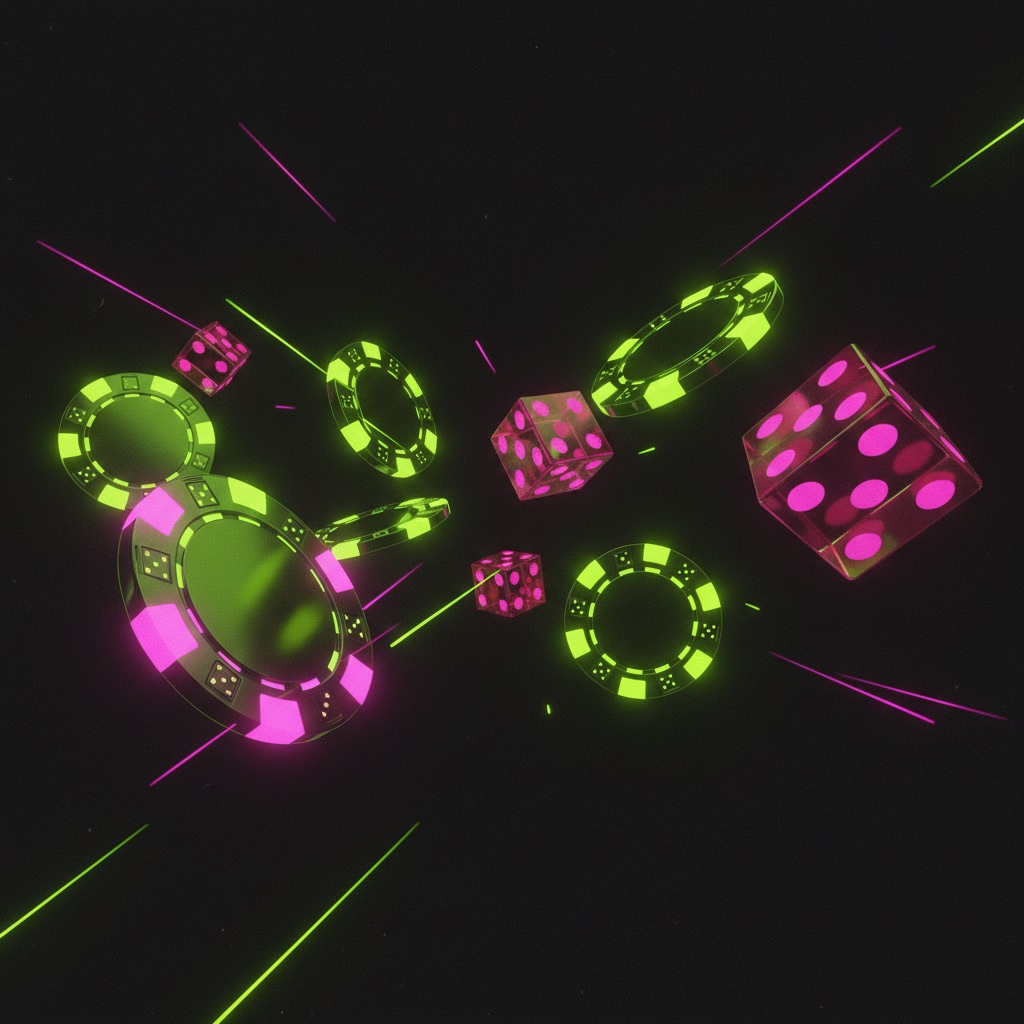
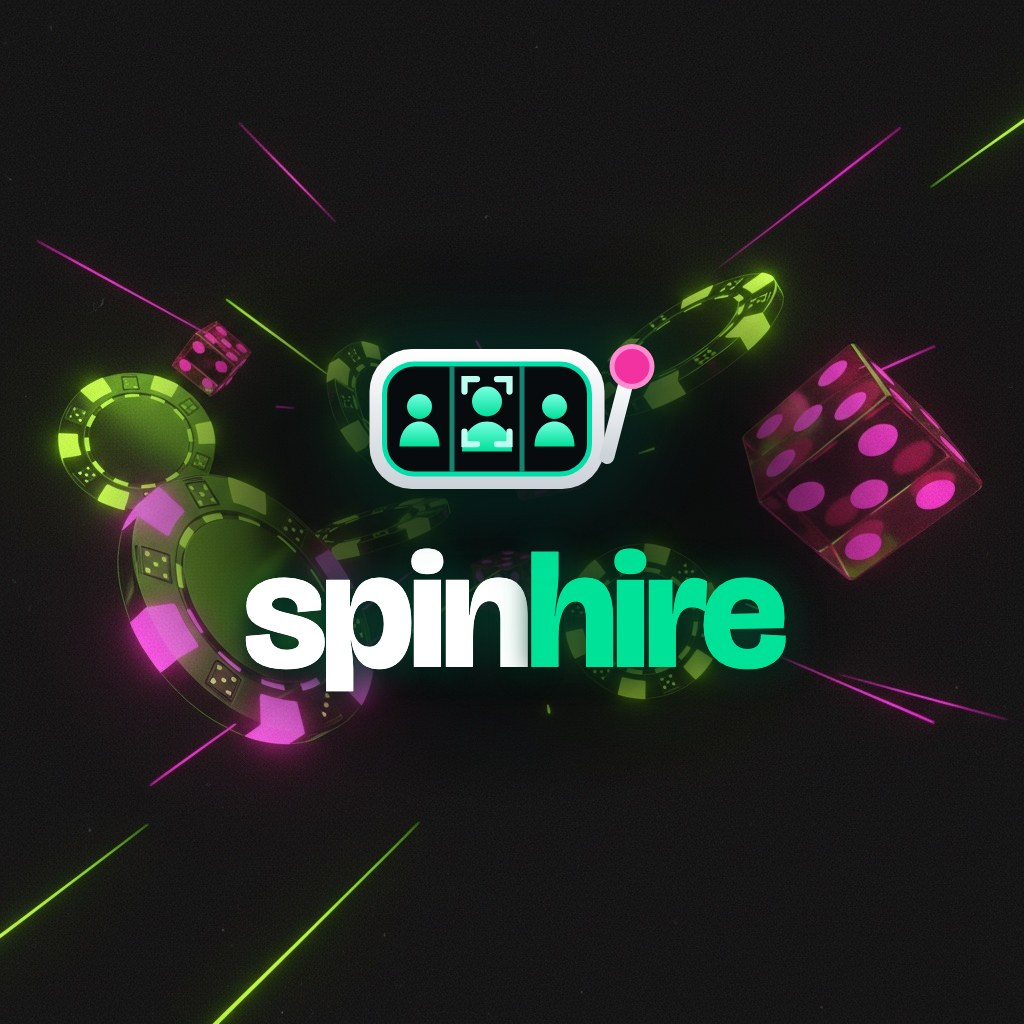
OG-обложка: логотип SpinHire по центру; исходный арт без логотипа — фон страницы игр

Changed region(s): [[0.125, 0.2812, 0.7812, 0.7188], [0.7188, 0.3438, 0.875, 0.5625]]

diff --git a/games.html b/games.html
@@ -40,7 +40,7 @@
   }
 
   .games-head { border-bottom: 1px solid var(--line); padding-block: var(--sp-6);
-    background: linear-gradient(oklch(0.13 0.02 305 / 0.78), oklch(0.14 0.02 305 / 0.96)), url('img/og-cover.jpg') center / cover no-repeat, var(--island); color: var(--island-ink); }
+    background: linear-gradient(oklch(0.13 0.02 305 / 0.78), oklch(0.14 0.02 305 / 0.96)), url('img/og-art.jpg') center / cover no-repeat, var(--island); color: var(--island-ink); }
   .games-head .crumbs a, .games-head .lead { color: var(--island-dim); }
   .games-head__grid { display: grid; grid-template-columns: minmax(0, 1fr) auto; gap: var(--sp-7); align-items: end; margin-top: var(--sp-5); }
   .games-head__intro { display: grid; gap: var(--sp-3); }
